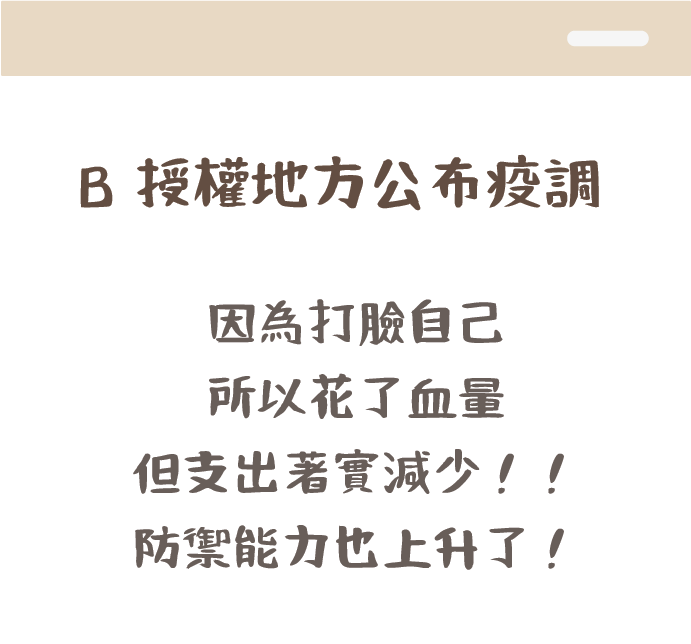
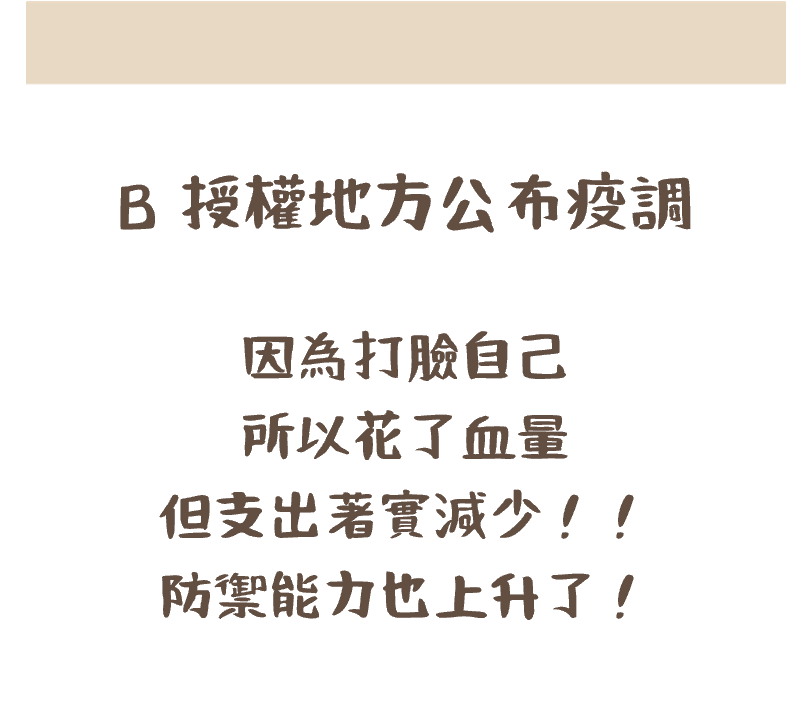
0815-1700 commit

diff --git a/event/data.py b/event/data.py
@@ -12,9 +12,9 @@ gov_decision_problem1 = [pygame.image.load(os.path.join("event/gov_img", "Q1_A.p
 gov_notify_problem1 = [ pygame.image.load(os.path.join("event/gov_img", "M1_A.png")),
                         pygame.image.load(os.path.join("event/gov_img", "M1_B.png")),
                         pygame.image.load(os.path.join("event/gov_img", "M1_C.png"))]
-gov_notify2_problem1 = [ pygame.image.load(os.path.join("event/gov_img", "M1_A.png")),
-                        pygame.image.load(os.path.join("event/gov_img", "M1_B.png")),
-                        pygame.image.load(os.path.join("event/gov_img", "M1_C.png"))]
+gov_notify2_problem1 = [ pygame.image.load(os.path.join("event/gov_img", "M1_A2.png")),
+                        pygame.image.load(os.path.join("event/gov_img", "M1_B2.png")),
+                        pygame.image.load(os.path.join("event/gov_img", "M1_C2.png"))]
 gov_hint_problem1 =    [pygame.image.load(os.path.join("event/gov_img", "Q1_A_HINT.png")),
                         pygame.image.load(os.path.join("event/gov_img", "Q1_B_HINT.png")),
                         pygame.image.load(os.path.join("event/gov_img", "Q1_C_HINT.png"))]
@@ -30,9 +30,9 @@ gov_decision_problem2 = [pygame.image.load(os.path.join("event/gov_img", "Q2_A.p
 gov_notify_problem2 = [ pygame.image.load(os.path.join("event/gov_img", "M2_A.png")),
                         pygame.image.load(os.path.join("event/gov_img", "M2_B.png")),
                         pygame.image.load(os.path.join("event/gov_img", "M2_C.png"))]
-gov_notify2_problem2 = [ pygame.image.load(os.path.join("event/gov_img", "M2_A.png")),
-                        pygame.image.load(os.path.join("event/gov_img", "M2_B.png")),
-                        pygame.image.load(os.path.join("event/gov_img", "M2_C.png"))]
+gov_notify2_problem2 = [ pygame.image.load(os.path.join("event/gov_img", "M2_A2.png")),
+                        pygame.image.load(os.path.join("event/gov_img", "M2_B2.png")),
+                        pygame.image.load(os.path.join("event/gov_img", "M2_C2.png"))]
 gov_hint_problem2 =   [ pygame.image.load(os.path.join("event/gov_img", "Q2_A_HINT.png")),
                         pygame.image.load(os.path.join("event/gov_img", "Q2_B_HINT.png")),
                         pygame.image.load(os.path.join("event/gov_img", "Q2_C_HINT.png"))]
@@ -48,9 +48,9 @@ gov_decision_problem3 = [pygame.image.load(os.path.join("event/gov_img", "Q3_A.p
 gov_notify_problem3 = [ pygame.image.load(os.path.join("event/gov_img", "M3_A.png")),
                         pygame.image.load(os.path.join("event/gov_img", "M3_B.png")),
                         pygame.image.load(os.path.join("event/gov_img", "M3_C.png"))]
-gov_notify2_problem3 = [ pygame.image.load(os.path.join("event/gov_img", "M3_A.png")),
-                        pygame.image.load(os.path.join("event/gov_img", "M3_B.png")),
-                        pygame.image.load(os.path.join("event/gov_img", "M3_C.png"))]                        
+gov_notify2_problem3 = [ pygame.image.load(os.path.join("event/gov_img", "M3_A2.png")),
+                        pygame.image.load(os.path.join("event/gov_img", "M3_B2.png")),
+                        pygame.image.load(os.path.join("event/gov_img", "M3_C2.png"))]                        
 gov_hint_problem3 = [   pygame.image.load(os.path.join("event/gov_img", "Q3_A_HINT.png")),
                         pygame.image.load(os.path.join("event/gov_img", "Q3_B_HINT.png")),
                         pygame.image.load(os.path.join("event/gov_img", "Q3_C_HINT.png"))]
@@ -66,9 +66,9 @@ gov_decision_problem4 = [pygame.image.load(os.path.join("event/gov_img", "Q4_A.p
 gov_notify_problem4 = [ pygame.image.load(os.path.join("event/gov_img", "M4_A.png")),
                         pygame.image.load(os.path.join("event/gov_img", "M4_B.png")),
                         pygame.image.load(os.path.join("event/gov_img", "M4_C.png"))]
-gov_notify2_problem4 = [ pygame.image.load(os.path.join("event/gov_img", "M4_A.png")),
-                        pygame.image.load(os.path.join("event/gov_img", "M4_B.png")),
-                        pygame.image.load(os.path.join("event/gov_img", "M4_C.png"))]
+gov_notify2_problem4 = [ pygame.image.load(os.path.join("event/gov_img", "M4_A2.png")),
+                        pygame.image.load(os.path.join("event/gov_img", "M4_B2.png")),
+                        pygame.image.load(os.path.join("event/gov_img", "M4_C2.png"))]
 gov_hint_problem4 = [   pygame.image.load(os.path.join("event/gov_img", "Q4_A_HINT.png")),
                         pygame.image.load(os.path.join("event/gov_img", "Q4_B_HINT.png")),
                         pygame.image.load(os.path.join("event/gov_img", "Q4_C_HINT.png"))]
@@ -84,9 +84,9 @@ gov_decision_problem5 = [pygame.image.load(os.path.join("event/gov_img", "Q5_A.p
 gov_notify_problem5 = [ pygame.image.load(os.path.join("event/gov_img", "M5_A.png")),
                         pygame.image.load(os.path.join("event/gov_img", "M5_B.png")),
                         pygame.image.load(os.path.join("event/gov_img", "M5_C.png"))]
-gov_notify2_problem5 = [ pygame.image.load(os.path.join("event/gov_img", "M5_A.png")),
-                        pygame.image.load(os.path.join("event/gov_img", "M5_B.png")),
-                        pygame.image.load(os.path.join("event/gov_img", "M5_C.png"))]
+gov_notify2_problem5 = [ pygame.image.load(os.path.join("event/gov_img", "M5_A2.png")),
+                        pygame.image.load(os.path.join("event/gov_img", "M5_B2.png")),
+                        pygame.image.load(os.path.join("event/gov_img", "M5_C2.png"))]
 gov_hint_problem5 =  [  pygame.image.load(os.path.join("event/gov_img", "Q5_A_HINT.png")),
                         pygame.image.load(os.path.join("event/gov_img", "Q5_B_HINT.png")),
                         pygame.image.load(os.path.join("event/gov_img", "Q5_C_HINT.png"))]

diff --git a/game/game.py b/game/game.py
@@ -31,11 +31,17 @@ class Game:
             pygame.time.Clock().tick(FPS)  # control the frame rate
             if game_control.model.enemies.count2 == game_control.model.occur_time: #產生第X隻怪物時發生突發事件
                 self.occur2 = True
+                self.occur1 = False
+                game_control.model.had_occur = True
             if self.occur1:
+                game_control.model.had_occur = False
+                
+                #暫停
                 #game_control.model.pause = True
                 # 第一次的動畫
                 pass
             if self.occur2:
+                #暫停
                 #game_control.model.pause = True
                 # 突發事件發生的動畫
                 pass

diff --git a/event/event.py b/event/event.py
@@ -183,6 +183,7 @@ class Events:
             else:
                 self.win.blit(player.lock_image, player.lock_image_rect)
                 show_text(self.win,'$ ' + str(player.cost),20,player.lock_image_rect.centerx-30,player.lock_image_rect.centery+5)
+        for player in self.players.player_btn:
             if player.show_buy:
                 self.win.blit(player.buy_message,player.buy_message_rect)
                 self.win.blit(player.buy,player.buy_rect)
